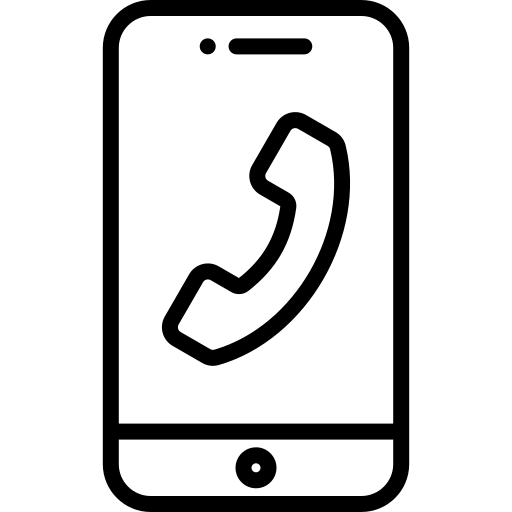
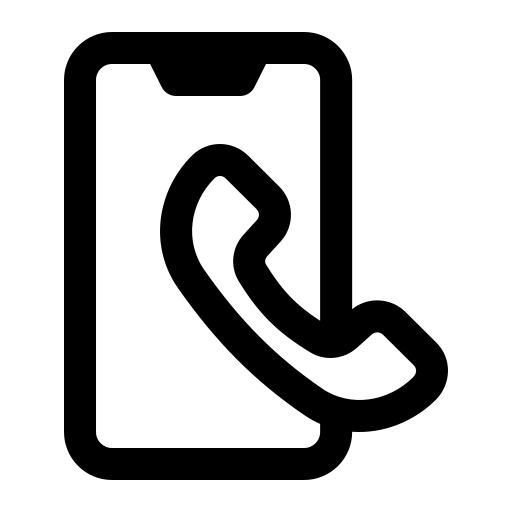
add phone number

diff --git a/src/components/GroomBride.vue b/src/components/GroomBride.vue
@@ -9,9 +9,11 @@
           <span>김정환</span>
           <div class="groomicon">
             <span class="call"
+              ><a href="tel:010-8984-4667"></a
               ><img class="groomcallimg" src="../assets/img/call.png" alt="전화 걸기"
             /></span>
             <span class="messege"
+              ><a href="sms:010-8984-4667"></a
               ><img class="groommessegeimg" src="../assets/img/messege.png" alt="전화 걸기"
             /></span>
           </div>
@@ -24,9 +26,11 @@
           <span>박소연</span>
           <div class="icon">
             <span class="call"
+              ><a href="tel:010-3425-7815"></a
               ><img class="callimg" src="../assets/img/call.png" alt="전화 걸기"
             /></span>
             <span class="messege"
+              ><a href="sms:010-3425-7815"></a
               ><img class="messegeimg" src="../assets/img/messege.png" alt="전화 걸기"
             /></span>
           </div>
